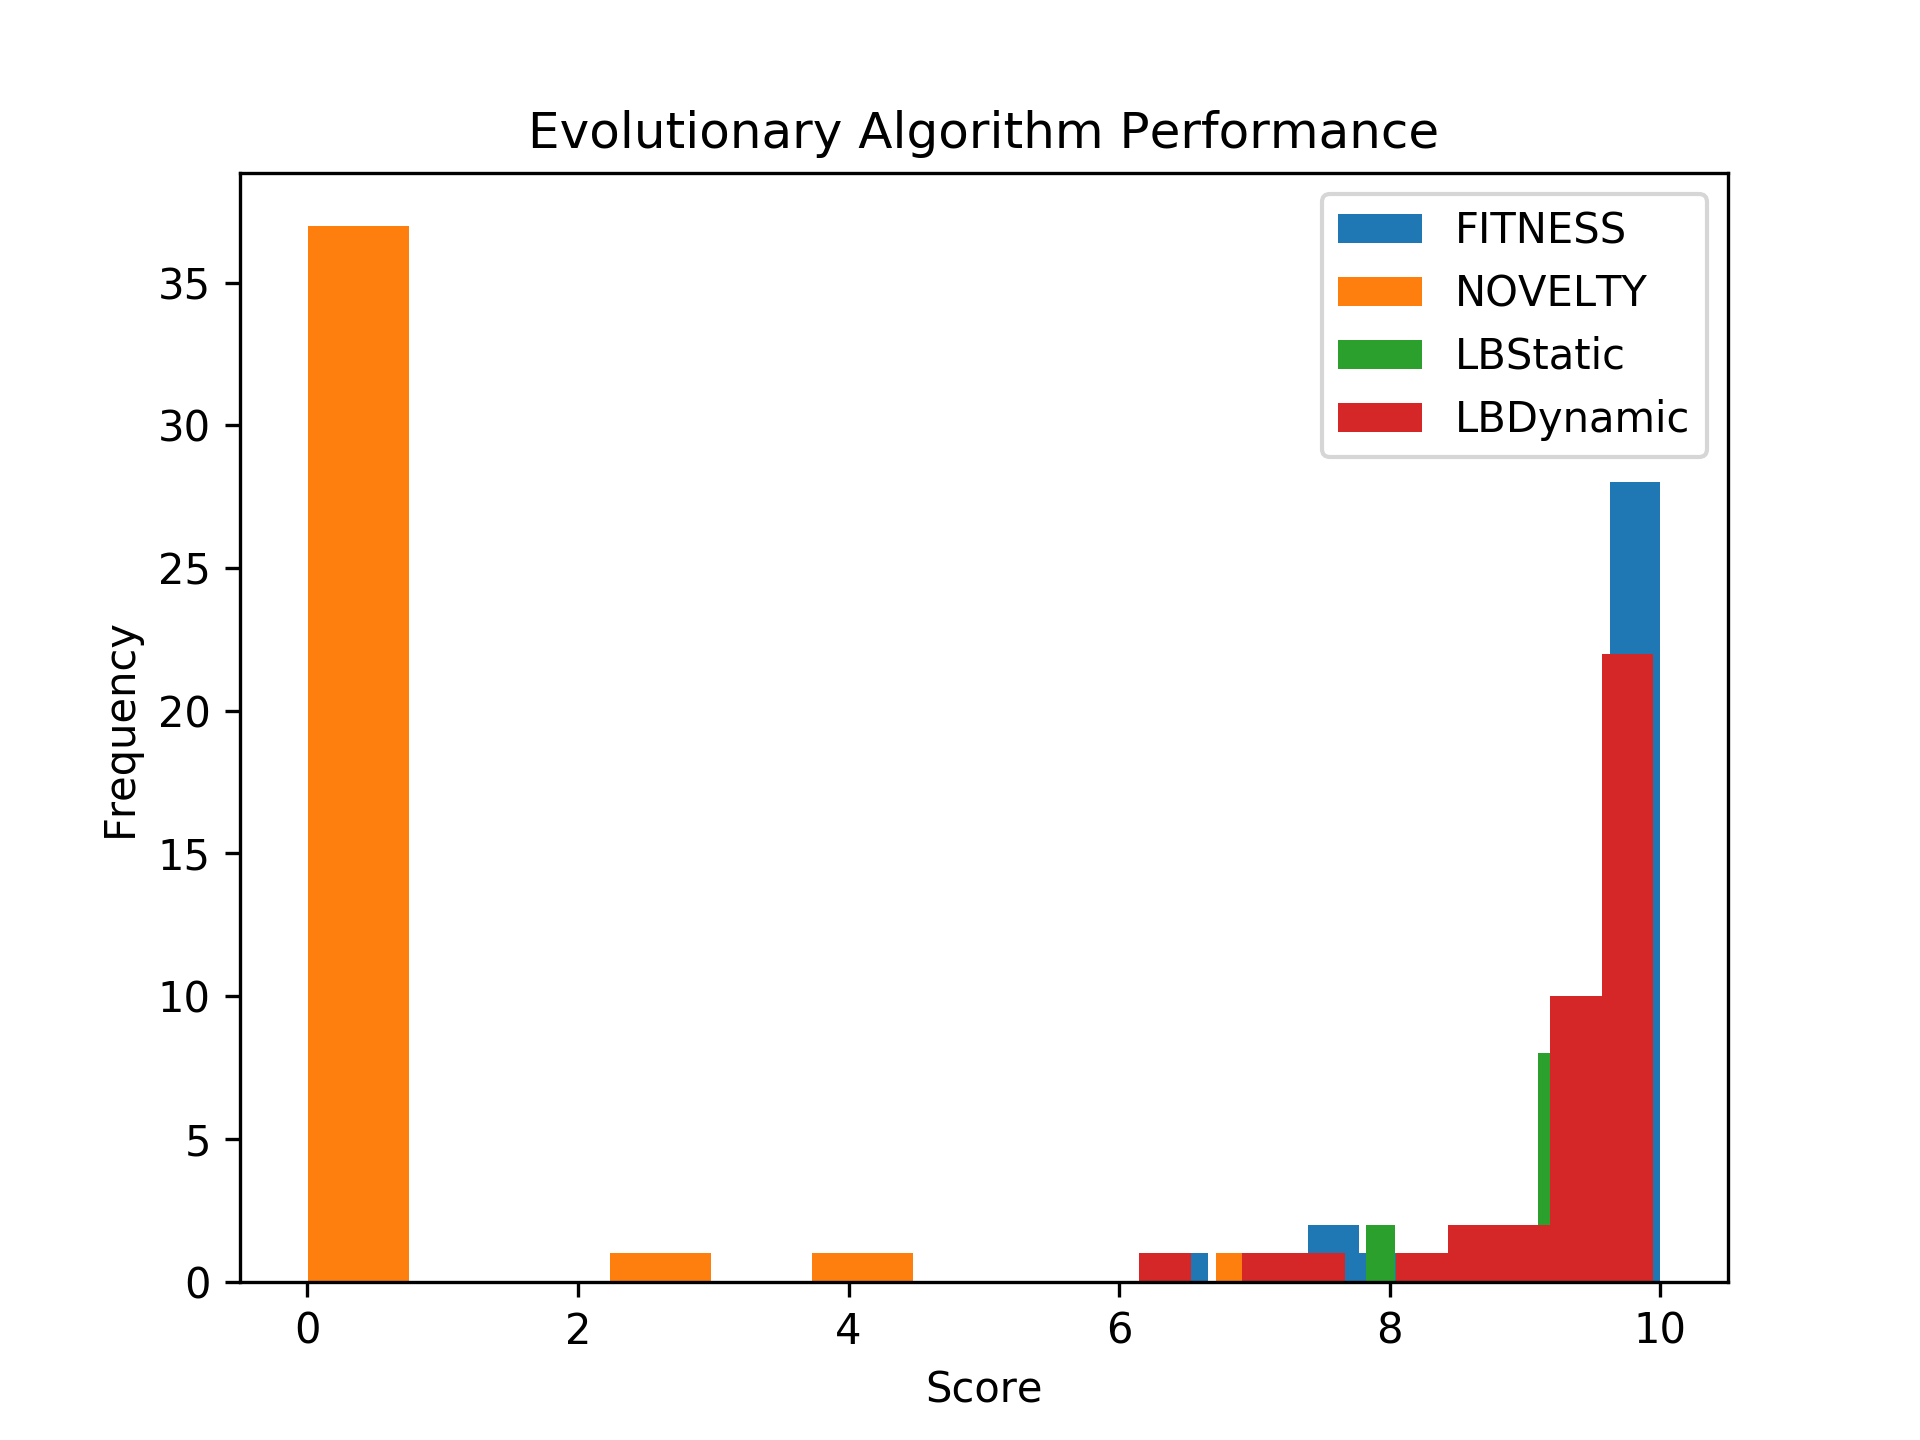
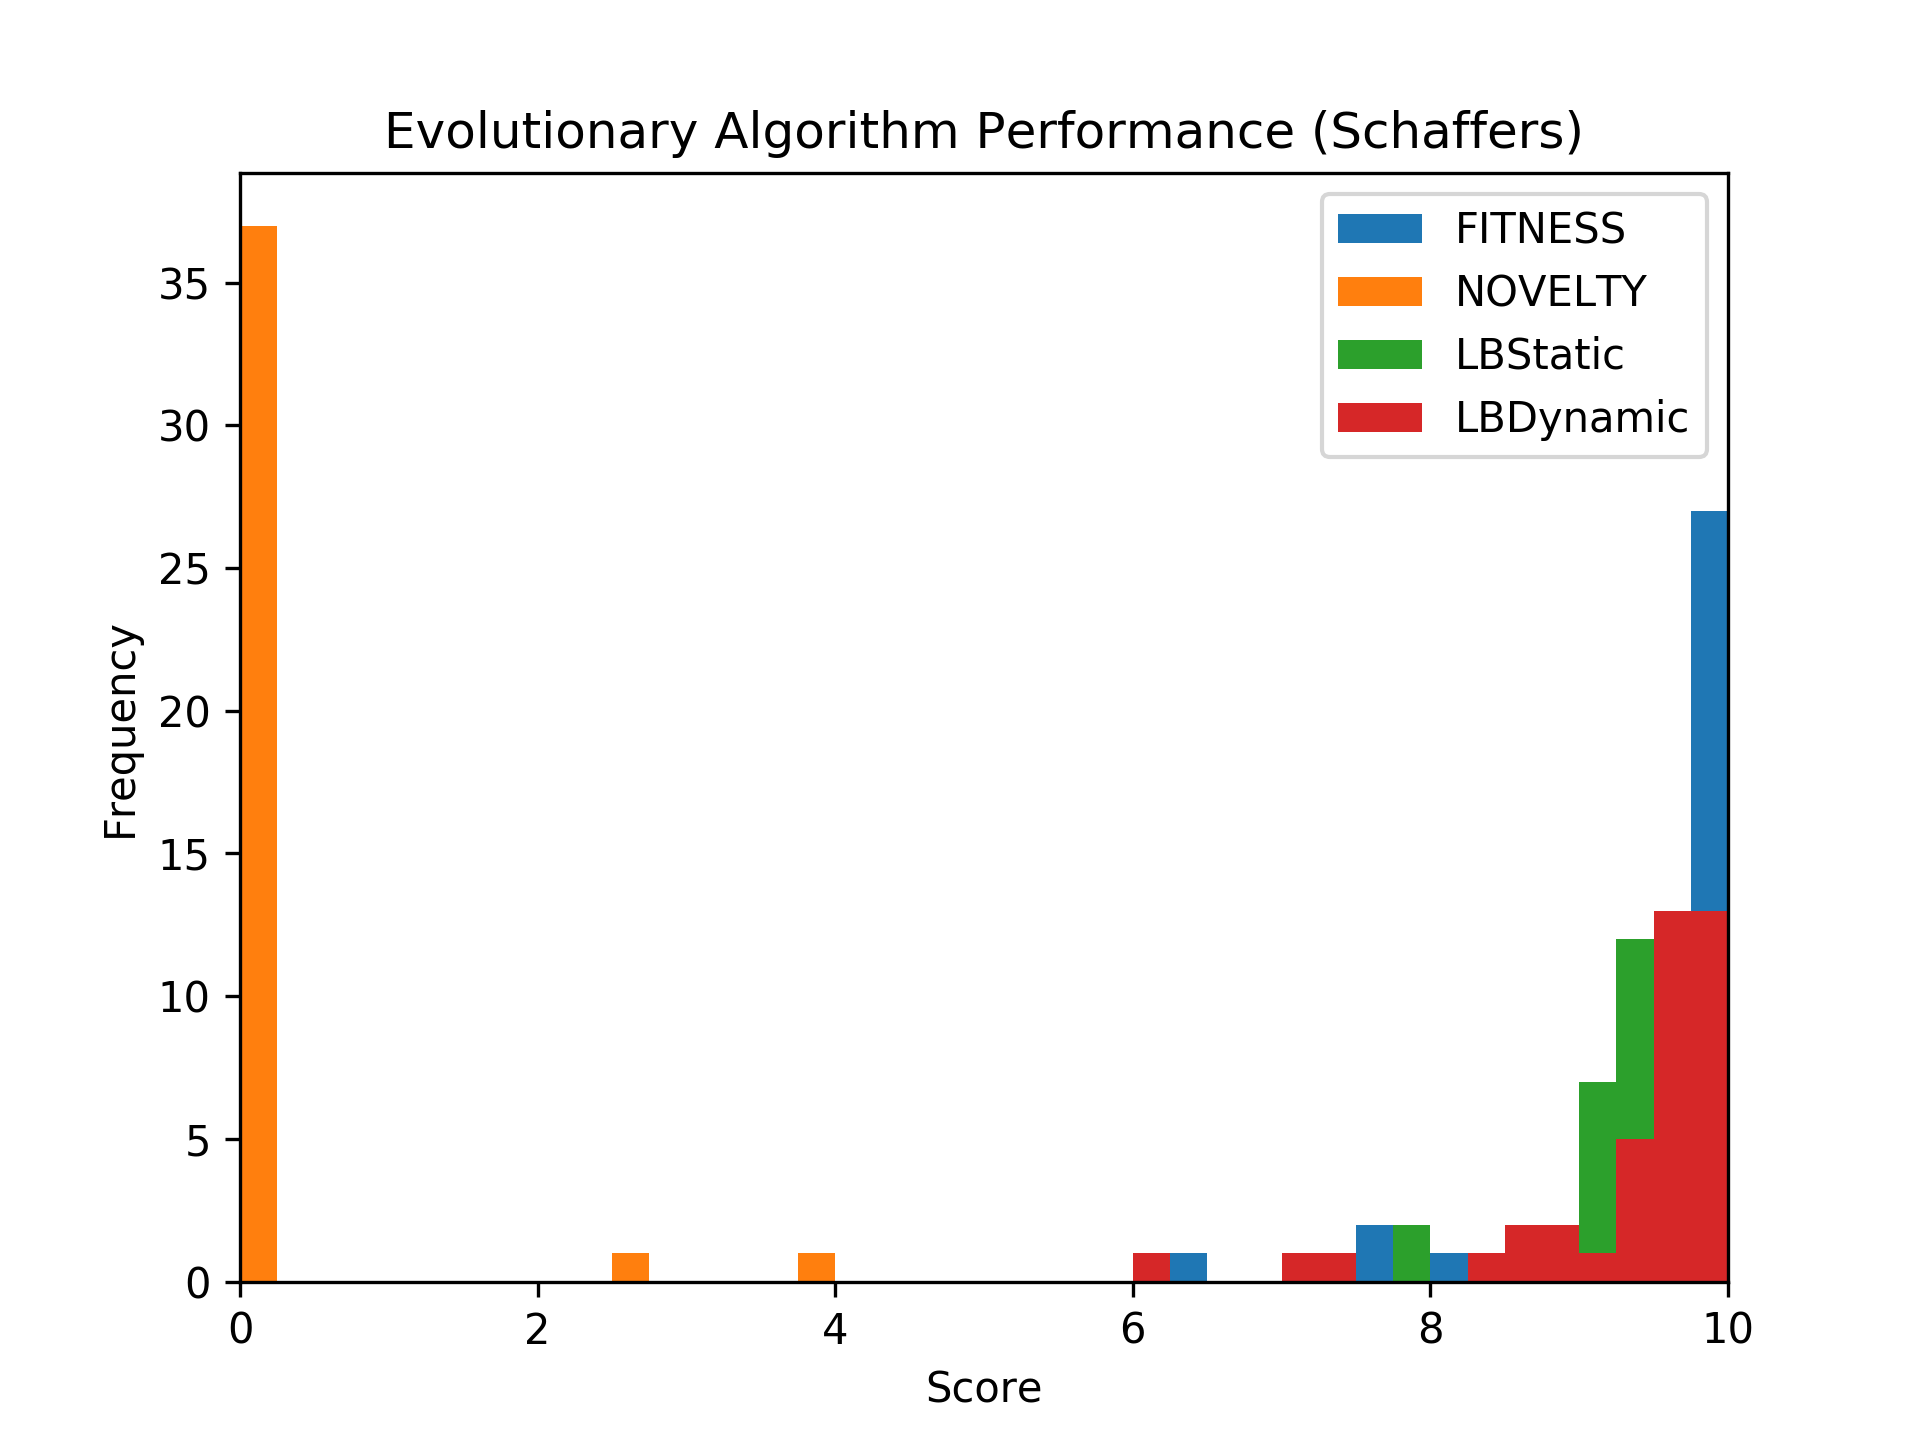
add optimal parameters Schaffers & Bent Cigar

diff --git a/player40.java b/player40.java
@@ -75,6 +75,47 @@ public class player40 implements ContestSubmission
 
 	public void setEvaluation(ContestEvaluation evaluation)
 	{
+		// Set evaluation problem used in the run
+		this.evaluation = evaluation;
+		// Get evaluation properties
+		Properties props = evaluation.getProperties();
+		// Get evaluation limit
+		evaluations_limit = Integer.parseInt(props.getProperty("Evaluations"));
+
+		// Property keys depend on specific evaluation
+		// E.g. double param = Double.parseDouble(props.getProperty("property_name"));
+		boolean isMultimodal = Boolean.parseBoolean(props.getProperty("Multimodal"));
+		boolean hasStructure = Boolean.parseBoolean(props.getProperty("Regular"));
+		boolean isSeparable = Boolean.parseBoolean(props.getProperty("Separable"));
+
+		if (hasStructure) { // Schaffers
+			population_size = 250;
+			tournament_size = 2;
+			crossover_points = 5;
+			mutation_probability = 0.35;
+			max_sigma = 2.0;
+			learning_rate = 0.23394022657643965;
+			novelty_treshold = 0.0;
+			linearblend = 1.0;
+			linearblend_delta = 0.0;
+			nearestNeighbours = 2;
+		}
+		else if (isMultimodal) { // Katsuura
+
+		}
+		else { // Bent Cigar
+			population_size = 98;
+			tournament_size = 3;
+			crossover_points = 4;
+			mutation_probability = 0.35;
+			max_sigma = 1.7874596076741391;
+			learning_rate = 0.5703412535711101;
+			novelty_treshold = 0.0;
+			linearblend = 1.0;
+			linearblend_delta = 0.0;
+			nearestNeighbours = 2;
+		}
+
 		// Get Hyperparameters from command line
 		if (System.getProperty("population_size") != null)
 			population_size = Integer.parseInt(System.getProperty("population_size"));
@@ -105,20 +146,6 @@ public class player40 implements ContestSubmission
 
 		if (System.getProperty("nearestNeighbours") != null)
 			nearestNeighbours = Integer.parseInt(System.getProperty("nearestNeighbours"));
-
-
-		// Set evaluation problem used in the run
-		this.evaluation = evaluation;
-		// Get evaluation properties
-		Properties props = evaluation.getProperties();
-		// Get evaluation limit
-		evaluations_limit = Integer.parseInt(props.getProperty("Evaluations"));
-
-		// Property keys depend on specific evaluation
-		// E.g. double param = Double.parseDouble(props.getProperty("property_name"));
-		boolean isMultimodal = Boolean.parseBoolean(props.getProperty("Multimodal"));
-		boolean hasStructure = Boolean.parseBoolean(props.getProperty("Regular"));
-		boolean isSeparable = Boolean.parseBoolean(props.getProperty("Separable"));
 	}
 
 	public void run() {
@@ -153,7 +180,7 @@ public class player40 implements ContestSubmission
 			// The first initiate is just to avoid nullpointerexceptions...
 	        Elephant[] noveList = initiate(1, max_sigma); 
 	  		
-	  		for (int i=0; i<evaluations_limit; i++){
+	  		while (true) {
 
 	  			// Initialize Children
 				Elephant[] children = new Elephant[population_size];

diff --git a/experiment.py b/experiment.py
@@ -10,29 +10,31 @@ def run_experiment(target: int, parameters: dict):
 
 def run_experiments(target: int, parameters: dict, repetitions: int):
 	for i in range(repetitions):
-		print("\rRunning Experiment {:2d}/{:2d}".format(i+1, repetitions), end="")
-		yield run_experiment(target, parameters)
+		# print("\rRunning Experiment {:2d}/{:2d}".format(i+1, repetitions), end="")
+		result = run_experiment(target, parameters)
+		print(result)
+		yield result
 
 
 if __name__ == "__main__":
 
 	## Experiment Settings ##
 	directory = "results"
-	name = "NOVELTY"
-	target = 3
+	name = "LBDynamic"
+	target = 2
 	repetitions = 40
 
 	parameters = {
-		'population_size': 250,
+		'population_size': 208,
 		'tournament_size': 2,
-		'crossover_points': 5,
+		'crossover_points': 2,
 		'mutation_probability': 0.35,
-		'max_sigma': 2.0,
-		'learning_rate': 0.19145968897006707,
-		'novelty_threshold': 10.0,
-		'linearblend': 0.0,
-		'linearblend_delta': 0.0,
-		'nearestNeighbours': 6,
+		'max_sigma': 1.0971574946931633,
+		'learning_rate': 0.23423232947955983,
+		'novelty_threshold': 2.736732536773115,
+		'linearblend': 0.1,
+		'linearblend_delta': 0.09877776913042888,
+		'nearestNeighbours': 6
 	}
 
 	## Perform Experiment and write to json ##

diff --git a/plot_histogram.py b/plot_histogram.py
@@ -10,21 +10,25 @@ import matplotlib.pyplot as plt
 
 
 directory = "results"
-paths = ["FITNESS_3.json", "NOVELTY_3.json", "LBStatic_3.json", "LBDynamic_3.json"]
+paths = ["FITNESS_2.json", "LBStatic_2.json"] #, "NOVELTY_1.json", "LBStatic_1.json", "LBDynamic_1.json"]
 
-plt.title("Evolutionary Algorithm Performance")
+plt.title("Evolutionary Algorithm Performance (Katsuura)")
+
 plt.xlabel("Score")
+plt.xlim(0, 10)
+
 plt.ylabel("Frequency")
+
 
 for path in paths:
 	with open(os.path.join(directory, path)) as json_file:
 		json_dictionary = json.load(json_file)
-		plt.hist(json_dictionary["output"], label=json_dictionary["name"])
+		plt.hist(json_dictionary["output"], label=json_dictionary["name"], bins=40, range=(0, 10))
 
 plt.legend()
 
 # Uncomment the following line to save Histogram to file
-# plt.savefig("figures/hist_3.png", dpi=300)
+plt.savefig("figures/hist_2.png", dpi=300)
 
 # Uncomment the following line to show histogram on screen
 plt.show()
